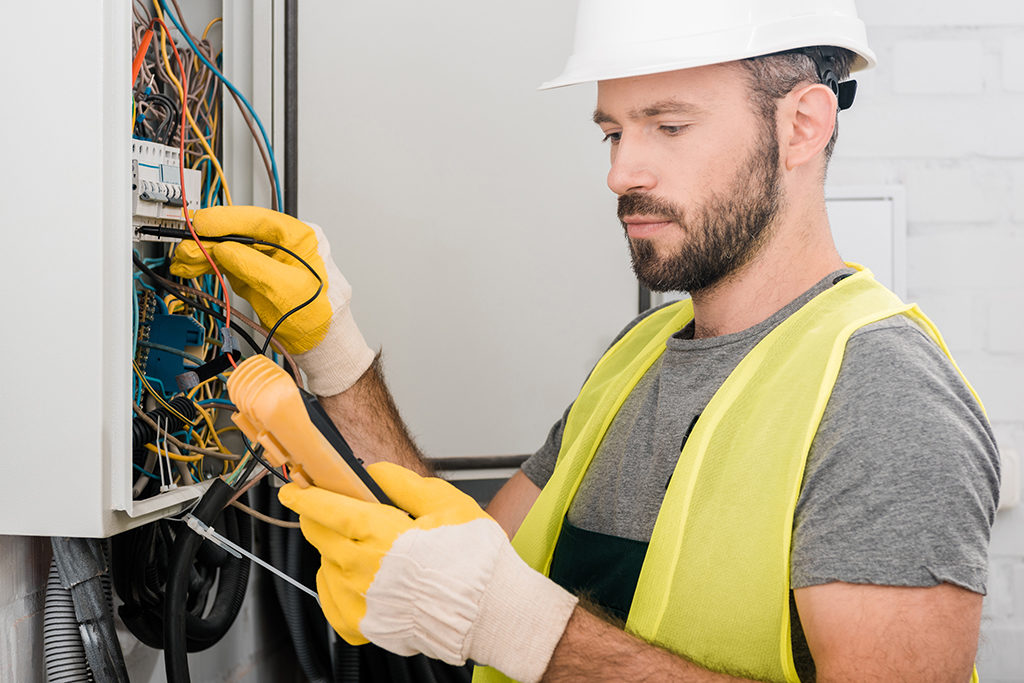
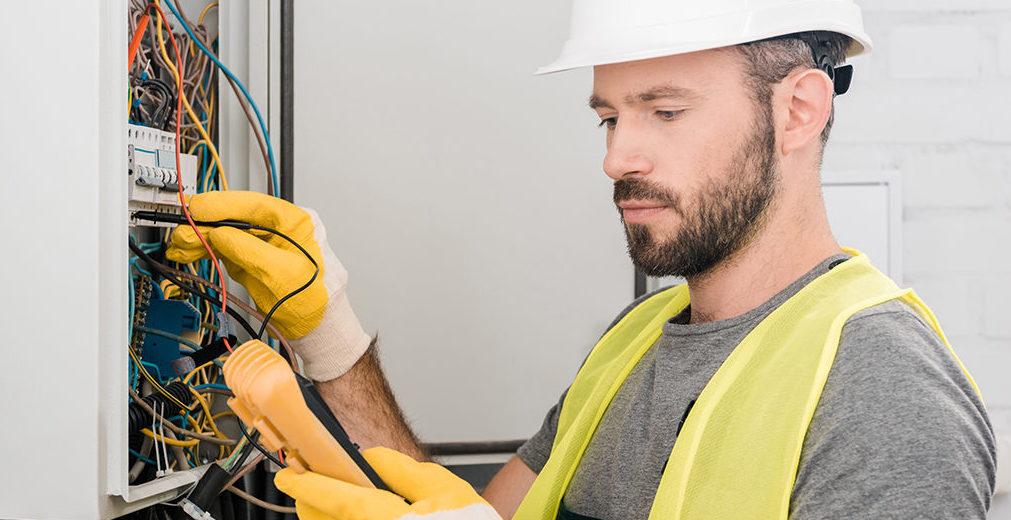
add new home page images

diff --git a/client/src/js/SearchBar.js b/client/src/js/SearchBar.js
@@ -15,10 +15,10 @@ import Typography from "@material-ui/core/Typography";
 
 import '../styles/SearchBar.css';
 import handymen from '../images/handymen.jpg';
-import construction from '../images/construction-worker.jpg'
+import painter from '../images/painters-Vancouver.jpg'
 import electrician from '../images/Electrician.jpg'
-import homereno from '../images/home-renovation.jpg'
-import tradespeople from '../images/tradespeople.jpg'
+import decorator from '../images/Interior-Designer.jpg'
+import plumber from '../images/woman+plumber.jpg'
 
 import useApplicationData from '../hooks/useApplicationData';
 import Carousel from "@brainhubeu/react-carousel";
@@ -48,12 +48,12 @@ export default function SearchBar(props) {
           paddingBottom: "20px",
         }}
       >
-        <Carousel autoPlay={3000} animationSpeed={2000} infinite>
+        <Carousel autoPlay={5000} animationSpeed={2000} infinite>
           <img alt="" src={handymen} className="home-pic" />
-          <img alt="" src={homereno} className="home-pic" />
-          <img alt="" src={construction} className="home-pic" />
+          <img alt="" src={plumber} className="home-pic" />
+          <img alt="" src={painter} className="home-pic" />
           <img alt="" src={electrician} className="home-pic" />
-          <img alt="" src={tradespeople} className="home-pic" />
+          <img alt="" src={decorator} className="home-pic" />
         </Carousel>
       </div>
       <div
@@ -137,6 +137,9 @@ export default function SearchBar(props) {
             marginLeft: "30px",
             marginRight: "30px",
             marginBottom: "20px",
+            backgroundColor: "#e8e8e8",
+            backgroundImage:
+              "url(https://www.transparenttextures.com/patterns/egg-shell.png)",
             // display: "flex",
             // flexWrap: "wrap",
             // justifyContent: "center",
@@ -183,12 +186,14 @@ export default function SearchBar(props) {
             height: "250px",
             marginLeft: "30px",
             marginRight: "30px",
+            backgroundColor: "#e8e8e8",
+            backgroundImage:
+              "url(https://www.transparenttextures.com/patterns/egg-shell.png)",
           }}
         >
           <div
             style={{
               display: "flex",
-
               justifyContent: "space-between",
             }}
           >
